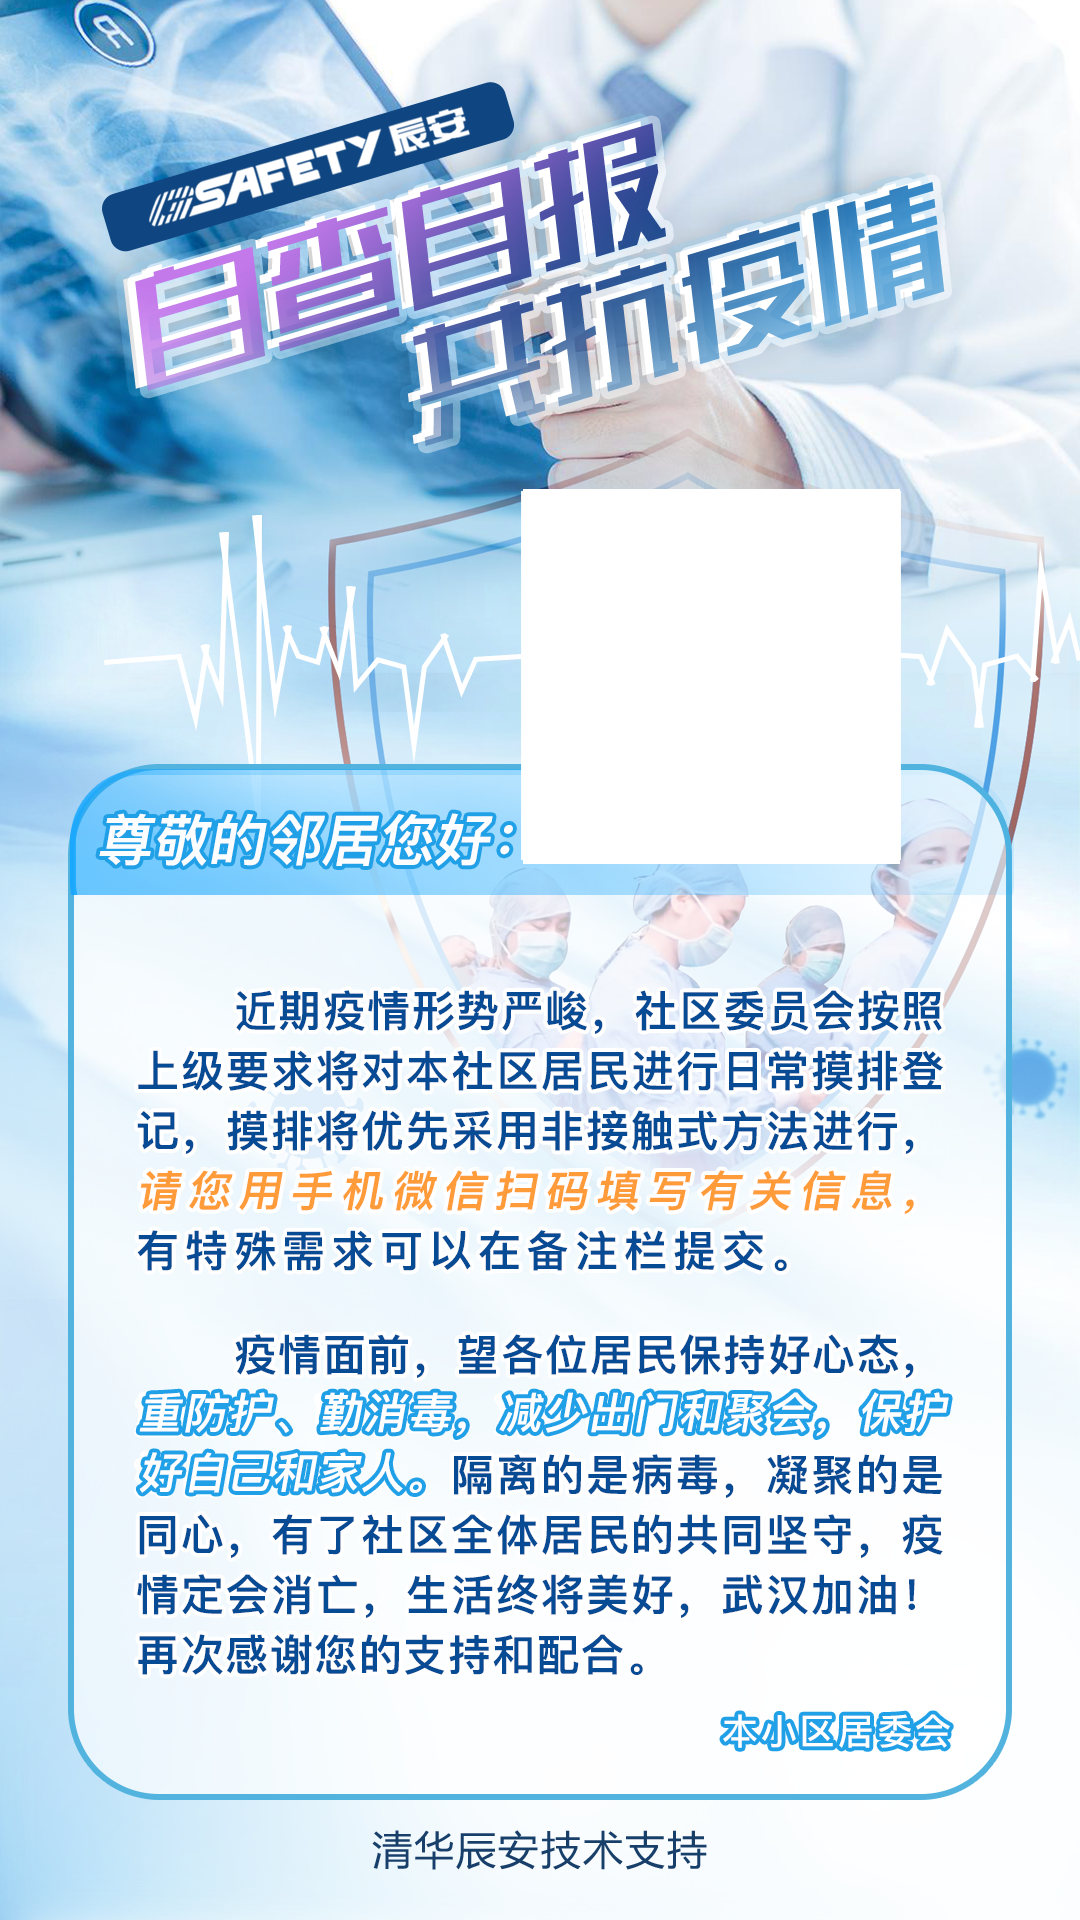
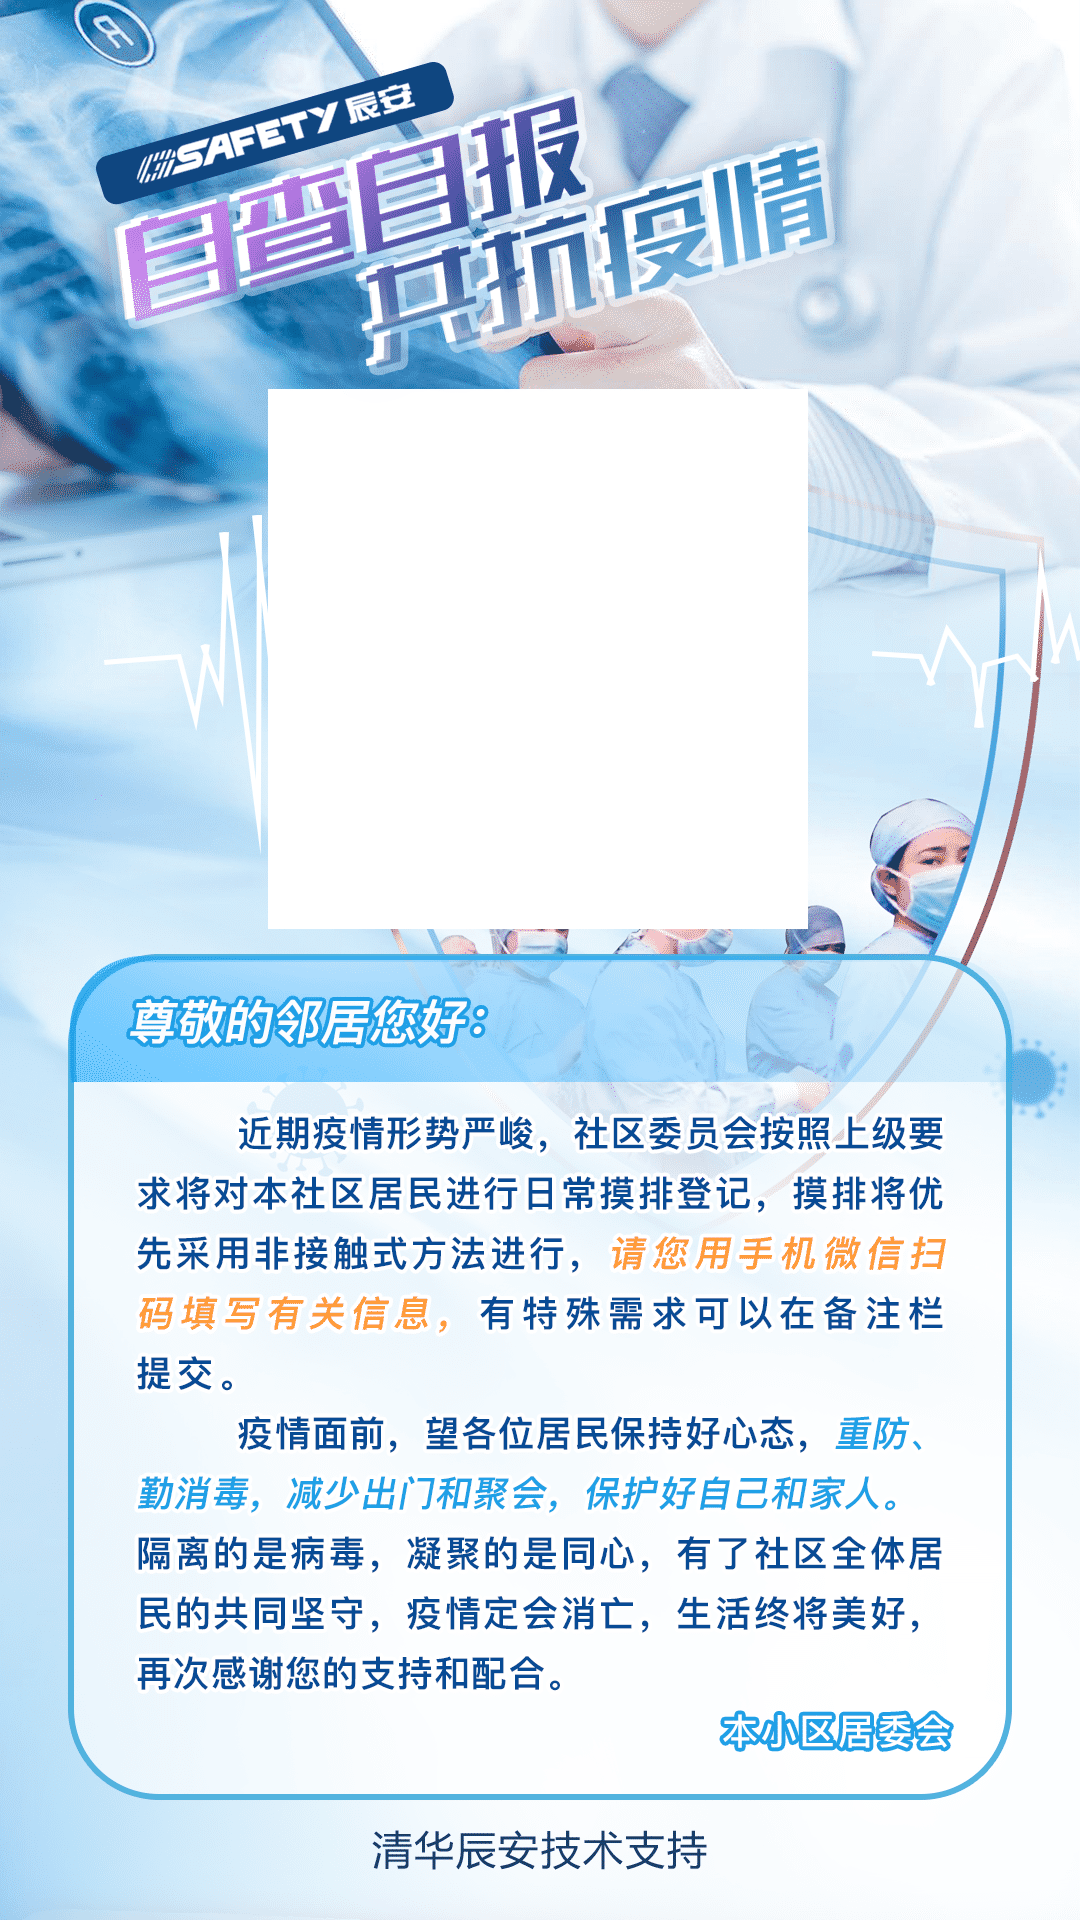
fix: 修改数据源权限以及二维码背景图

diff --git a/src/components/system-manage/attribute-manage/attribute-manage.ts b/src/components/system-manage/attribute-manage/attribute-manage.ts
@@ -27,11 +27,13 @@ import eventTypeServie from '@/api/base-data-define/event-type.service';
 import notifyUtil from '@/common/utils/notifyUtil';
 import i18n from '@/i18n';
 
-
 @Component({
   template: Html,
   style: Styles,
-  themes: [{ name: 'white', style: attributeStyle }, { name: 'black', style: attributeBlackStyle }],
+  themes: [
+    { name: 'white', style: attributeStyle },
+    { name: 'black', style: attributeBlackStyle }
+  ],
   components: {
     'el-level-define-content': LevelDefinecontentComponent,
     'new-data-source': NewDataSourceComponent,
@@ -357,9 +359,25 @@ export class AttributeManageComponent extends Vue {
     } else {
       // 使用本系统数据
       result = await dataSourceService.queryDataSource();
+      const userString = sessionStorage.getItem('userInfo');
+      if (userString) {
+        const userInfo = JSON.parse(userString);
+        if (userInfo.userName === 'manager_pms') {
+          return result;
+        }
+      }
+      const districtCode = sessionStorage.getItem('district');
+      // 过滤 1. 显示所有数据源的权限  2.当前社区code过滤
+      if (!this.rolePrivilege.displayAll) {
+        result = result.filter((a: any) => a.description === districtCode && a.tag === '[{\'id\':\'\',\'name\':\'code\',\'description\':\'\'}]');
+      } else {
+        const publicDataSOurce = result.filter((a: any) => a.description === '');
+        const curDataSource = result.filter(
+          (a: any) => a.description === districtCode && a.tag === '[{\'id\':\'\',\'name\':\'code\',\'description\':\'\'}]'
+        );
+        result = publicDataSOurce.concat(curDataSource);
+      }
     }
     return result;
   }
-
-
 }

diff --git a/src/components/system-manage/community-qr-manage/community-qr-manage.html b/src/components/system-manage/community-qr-manage/community-qr-manage.html
@@ -41,7 +41,7 @@
     <div ref="contentRef">
       <div class="qr-code-box">
         <div class="img-box">
-          <img class="img-style" style="width: 152px; height: 152px" :src="currentSelectRowInfo.image" fit="fit"></img>
+          <img class="img-style" style="width: 214.5px; height: 215px" :src="currentSelectRowInfo.image" fit="fit"></img>
         </div>
         <!-- <div class="desciption"> -->
           <!-- <p> <span>自查自报</span> <span class="item-right">共抗疫情</span></p>

diff --git a/src/components/system-manage/attribute-manage/anchor-nav/anchor-nav.html b/src/components/system-manage/attribute-manage/anchor-nav/anchor-nav.html
@@ -1,12 +1,12 @@
 <div class="anchor-nav-box">
-  <div class="search-box" v-if="showSearchInput">
+  <!-- <div class="search-box" v-if="showSearchInput">
     <el-input
       class="input-search"
       v-model="searchValue"
       :placeholder="$t('tempMgr.keywords_search_placeholder')"
       suffix-icon="iconfont iconpms-icon_search"
     ></el-input>
-  </div>
+  </div> -->
   <div class="anchor-nav-content" v-for="(item, index) in data">
     <b></b>
     <transition name="slide-fade">

diff --git a/src/components/system-manage/community-qr-manage/community-qr-manage.ts b/src/components/system-manage/community-qr-manage/community-qr-manage.ts
@@ -68,8 +68,8 @@ export class CommunityQRManageComponent extends Vue {
   async created() {
     this.qrCodeUrl = store.getters.configs.qrCodeUrl;
     await this.getDataSOurceByDistrictCode();
-    this.getCommunityInformationById(this.currentCommunityId);
-    this.getCommunityGridMember();
+    await this.getCommunityInformationById(this.currentCommunityId);
+    await this.getCommunityGridMember();
   }
 
   /**

diff --git a/src/components/system-manage/attribute-manage/level-define-content/level-define-content.html b/src/components/system-manage/attribute-manage/level-define-content/level-define-content.html
@@ -111,6 +111,7 @@
           <!-- <p class="close-tree-ddata">
             <i size="mini" class="el-icon-circle-close-outline icon-btn" @click="onCloseDDataSource" @click.stop></i>
           </p> -->
+
           <div class="search-box">
             <el-input
               class="input-search"

diff --git a/src/components/system-manage/community-qr-manage/community-qr-manage.module.scss b/src/components/system-manage/community-qr-manage/community-qr-manage.module.scss
@@ -33,10 +33,9 @@
         height: 365px;
         position: relative;
         .img-style {
-          margin-top: 28px;
           position: absolute;
-          left: 48.2%;
-          top: 45.5%;
+          left: 24.8%;
+          top: 42.4%;
         }
       }
       .desciption {

diff --git a/src/components/system-manage/attribute-manage/attribute-manage.html b/src/components/system-manage/attribute-manage/attribute-manage.html
@@ -29,6 +29,7 @@
         </div> -->
       </div>
       <el-button
+      v-if="rolePrivilege.operate"
       type="primary"
       class="iconfont iconpms-icon_add primary-btn btn-new dawn-data-source-btn"
       @click="onMakeNewDataSource"
